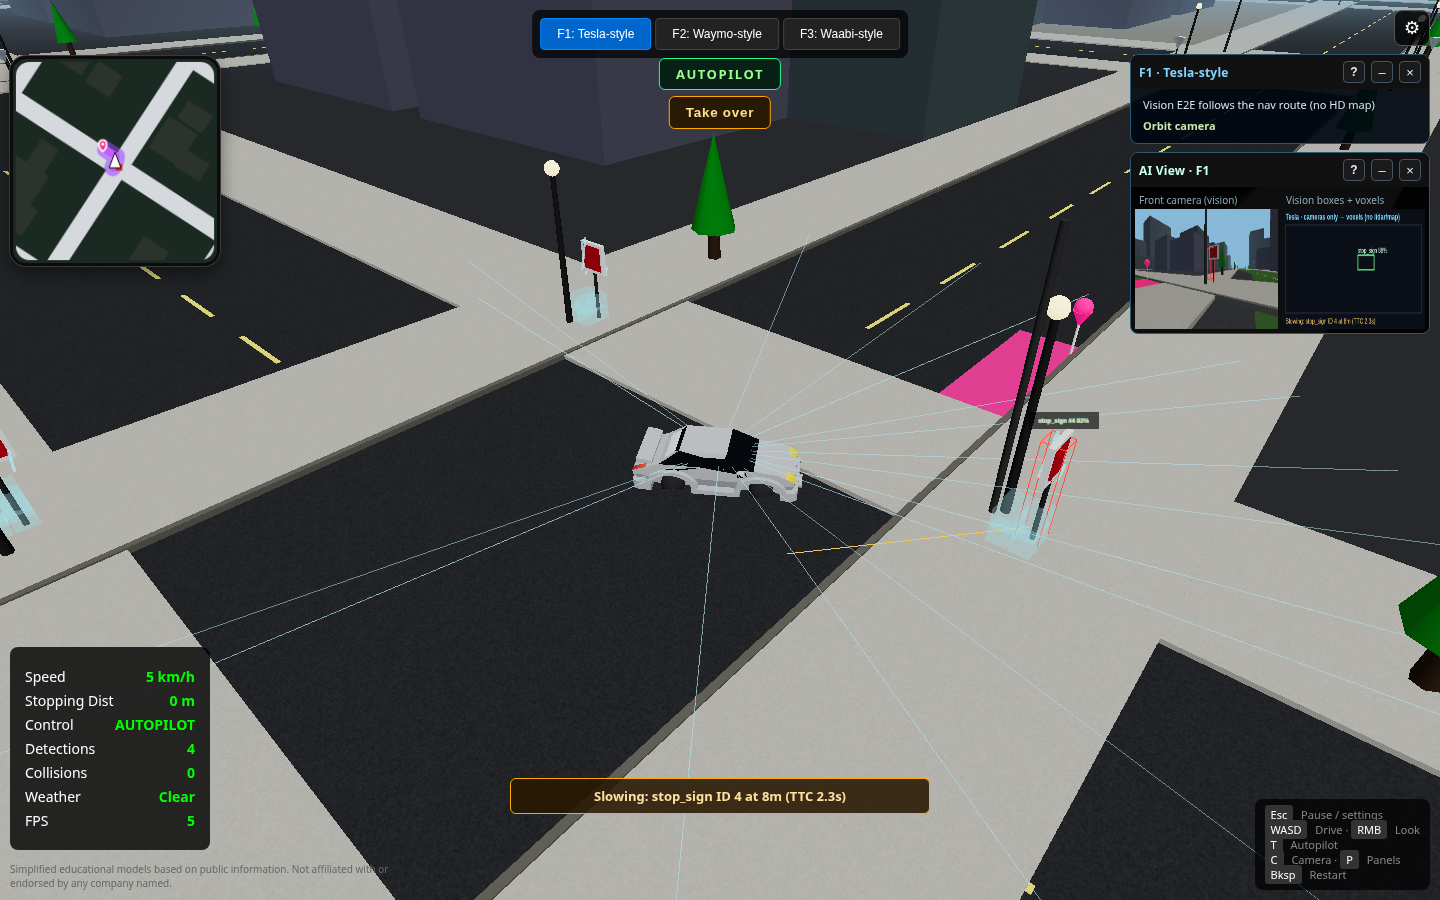
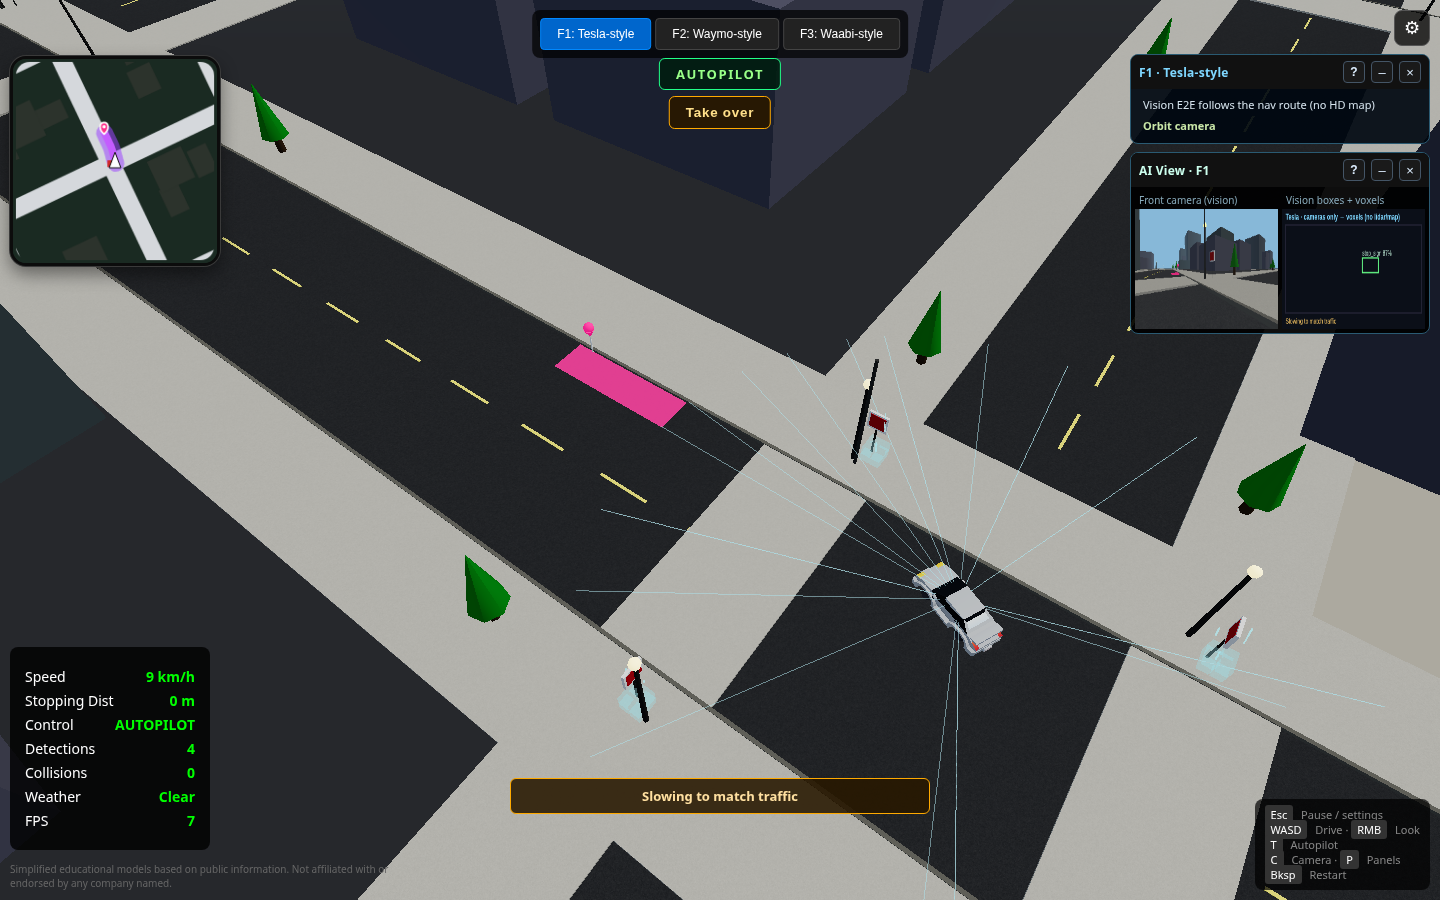
fix: slide cross-street dest pad past corner poles and signs
A 16 m center left the 8.4 m bay over sidewalks, crosswalks, and
corner furniture, so the car braked for a stop sign inside its own
pad. Cross-street pads now sit DEST_PAD_ALONG_CLEAR (23.2 m) on the
curb lane — 12 m past the asphalt box — while same-street opposite
dests at y=78 stay put.

diff --git a/game/src/sim/rightLane.test.ts b/game/src/sim/rightLane.test.ts
@@ -5,7 +5,10 @@ import { createPlannerState, planTrajectory } from '../planning/planner';
 import { createEgoState, updateVehicle, vehicleInputFromAccel } from './vehicle';
 import {
   CURB_CLEARANCE,
+  DEST_PAD_ALONG_CLEAR,
   LANE_OFFSET,
+  PAD_ALONG,
+  PAD_JUNCTION_GAP,
   PAD_WIDTH,
   PULL_OVER_OFFSET,
   ROAD_HALF,
@@ -269,6 +272,58 @@ describe('right-hand traffic lanes', () => {
     expect(turns).toEqual(['left']);
     expect(Math.min(...route.map(p => p.y))).toBeGreaterThan(90);
     expect(Math.max(...route.map(p => p.y))).toBeLessThan(resolved.pad.y + 8);
+  });
+
+  it('parks a corner left dest in the curb lane, 12 m past poles, signs, and crosswalks', () => {
+    const start = snapTripStart(50, 100, 0);
+    const end = vec3(104, 110, 0);
+    const resolved = resolveTripDestination(start, end);
+    const ix = 100;
+    const iy = 100;
+    expect(resolved.opposite).toBe(false);
+    expect(resolved.arrivalHeading).toBeCloseTo(Math.PI / 2, 5);
+    expect(resolved.pad.x).toBeCloseTo(ix + PULL_OVER_OFFSET, 5);
+    expect(resolved.pad.y).toBeCloseTo(iy + DEST_PAD_ALONG_CLEAR, 5);
+
+    const nearEdge = resolved.pad.y - PAD_ALONG / 2;
+    expect(nearEdge).toBeGreaterThanOrEqual(iy + ROAD_HALF + PAD_JUNCTION_GAP - 0.01);
+    expect(lateralFromCenter(resolved.pad.x, resolved.pad.y, resolved.arrivalHeading))
+      .toBeCloseTo(PULL_OVER_OFFSET, 5);
+
+    const halfAlong = PAD_ALONG / 2;
+    const halfLat = PAD_WIDTH / 2;
+    const padHits = (x: number, y: number, r = 0.2) => (
+      x >= resolved.pad.x - halfLat - r
+      && x <= resolved.pad.x + halfLat + r
+      && y >= resolved.pad.y - halfAlong - r
+      && y <= resolved.pad.y + halfAlong + r
+    );
+
+    const map = generateCityMap(3, CITY);
+    const furniture = map.staticEntities.filter(e => (
+      e.classType === 'pole' || e.classType === 'stop_sign' || e.classType === 'yield_sign'
+    ));
+    expect(furniture.some(e => (
+      Math.abs(e.transform.position.x - ix) < 14 && Math.abs(e.transform.position.y - iy) < 14
+    ))).toBe(true);
+    for (const e of furniture) {
+      expect(padHits(e.transform.position.x, e.transform.position.y)).toBe(false);
+    }
+
+    // Visual lamps / painted bars sit ~9–10 m off the crossing (main.ts city roads).
+    const lamp = ROAD_HALF + 2;
+    const walk = ROAD_HALF + 2.2;
+    for (const [dx, dy] of [[1, 1], [1, -1], [-1, 1], [-1, -1]] as const) {
+      expect(padHits(ix + dx * lamp, iy + dy * lamp)).toBe(false);
+    }
+    for (const s of [-3, 0, 3]) {
+      expect(padHits(ix + s * 0.9, iy + walk)).toBe(false);
+      expect(padHits(ix + walk, iy + s * 0.9)).toBe(false);
+    }
+
+    const opposite = resolveTripDestination(vec3(0, 22, 0), vec3(-4.5, 78, 0));
+    expect(opposite.opposite).toBe(true);
+    expect(opposite.pad.y).toBeCloseTo(78, 0);
   });
 
   it('does not loop for a cross-street dest that used to look opposite', () => {

diff --git a/game/src/sim/rightLane.ts b/game/src/sim/rightLane.ts
@@ -30,8 +30,16 @@ export const PAD_WIDTH = 2 * (ROAD_HALF - PULL_OVER_OFFSET);
 export const PULL_OVER_LENGTH = 16;
 /** Straight, road-parallel tail so the nose matches the curb at the stop. */
 export const PULL_OVER_STRAIGHT = 10;
-/** Keep the pad out of the intersection box. */
+/** Keep a same-street pad out of the intersection box (center-to-center). */
 export const DEST_INTERSECTION_CLEAR = 16;
+/**
+ * Metres past the asphalt box to the near edge of a cross-street pad.
+ * Poles, stop/yield signs, and painted crosswalks sit ~9–10 m from the
+ * crossing; a 16 m center leaves the 8.4 m bay overlapping them.
+ */
+export const PAD_JUNCTION_GAP = 12;
+/** Arrival-heading distance from the crossing to the pad center. */
+export const DEST_PAD_ALONG_CLEAR = ROAD_HALF + PAD_JUNCTION_GAP + PAD_ALONG / 2;
 /** Mid-block spawn: stay this far from a grid crossing so the car is not on a stop line. */
 export const SPAWN_INTERSECTION_CLEAR = 24;
 /** City grid step (matches `world.ts` MAP_BLOCK). */
@@ -258,11 +266,13 @@ export function placeTripStart(start: Vec3, end: Vec3): { pos: Vec3; yaw: number
  * Slide a roadside pad out of a junction.
  * Same-street: park *before* the box (backward along the approach).
  * Cross-street (`keepClickSide`): stay on the click's arm so a left-turn dest
- * just past the corner is not dragged back onto the approach street.
+ * just past the corner is not dragged back onto the approach street, and
+ * sit far enough that the 8.4 m bay is past poles, signs, and crosswalks.
  */
 export function slideOffIntersection(point: Vec3, heading: number, keepClickSide = false): Vec3 {
   const yaw = snapHeadingToGrid(heading);
-  if (!nearGridCrossing(point.x, point.y)) {
+  const minAlong = keepClickSide ? DEST_PAD_ALONG_CLEAR : DEST_INTERSECTION_CLEAR;
+  if (!nearGridCrossing(point.x, point.y, minAlong)) {
     return placeInRightLane(point.x, point.y, yaw, PULL_OVER_OFFSET);
   }
   const ix = nearestGridLine(point.x);
@@ -271,7 +281,7 @@ export function slideOffIntersection(point: Vec3, heading: number, keepClickSide
   const fy = Math.sin(yaw);
   const along = (point.x - ix) * fx + (point.y - iy) * fy;
   const targetAlong = keepClickSide
-    ? (along >= 0 ? 1 : -1) * DEST_INTERSECTION_CLEAR
+    ? Math.sign(along || 1) * Math.max(Math.abs(along), minAlong)
     : (along >= 0 ? -DEST_INTERSECTION_CLEAR : Math.min(along, -DEST_INTERSECTION_CLEAR));
   return placeInRightLane(ix + fx * targetAlong, iy + fy * targetAlong, yaw, PULL_OVER_OFFSET);
 }

diff --git a/wiki/systems/testing.md b/wiki/systems/testing.md
@@ -23,7 +23,7 @@ Collision-response tests live in `collision.test.ts` (OBB/capsule overlap, spati
 
 `poleTurn.test.ts` drives left / right / straight through a grid corner that has city poles and asserts `obstacleAhead` never full-brakes on them. `viewPerfTurns.test.ts` reuses the same `driveCorner` helper so those turns still complete after perception-scheduling changes. `f3Perf.test.ts` bounds F3 overlay lidar scans, occupancy allocs, and 10 Hz predicts. `npm run bench:views` reports F1/F2/F3 subsystem times. `cityLook.test.ts` covers vertex AO and procedural textures. `pedestrianVisual.test.ts` asserts walking heading stays within 10° of `atan2(velocity)`.
 
-`destination.test.ts` / `rightLane.test.ts` cover the roadside pad (right-curb offset 5.775 m, slide off junctions, `tripRoute` tail) and a planner+vehicle pull-over that stops on the pad. Parked pose asserts heading error **< 5°** and every sedan corner on the **arrival road** (`onArrivalAsphalt` + `distanceToRightCurb` ~0.3 m), not `|x| < 7` (N–S only) or `pointOnAsphalt` (OR of both axes). Eastbound unit cases use the Y curb so `|x| < 7` would wrongly fail x≈50. The live sim then holds with banner **Arrived**. Opposite-side clicks assert a U-turn (route goes past the next junction) and Arrived on the left curb heading-aligned, with no cruise-stuck in-lane stop. A dest one left turn away asserts exactly one left, no U-turn, and a near-Manhattan length (a U-turn + right would add a block). Left, right, and straight trip routes all pass; a cross-street click that used to look "left of the last segment" no longer loops. `stackLeftTurn.test.ts` drives that left with `planTrajectory` + `updateVehicle` and checks each stack's `setPlannerStack` + `beginTrip` is still one left. `stackPlan.test.ts` / `laneGraph.test.ts` cover Tesla vision detections, Waymo HD-lane lefts, and Waabi occupancy scoring preferring the dest route. `?demo=left-near&stack=tesla|waymo|waabi` is the live view rig. `perceptionViz.test.ts` asserts world-space `%` sprites stay capped, fade with distance, and hide under the HUD. Minimap tests assert the dest pin is `#ff2d8a` and still projects in manual. `?demo=arrive` / `?demo=arrive-opp` are the screenshot rigs (those two demos clear traffic and pedestrians so a ped cannot steal the arrival).
+`destination.test.ts` / `rightLane.test.ts` cover the roadside pad (right-curb offset 5.775 m, slide off junctions, `tripRoute` tail) and a planner+vehicle pull-over that stops on the pad. Parked pose asserts heading error **< 5°** and every sedan corner on the **arrival road** (`onArrivalAsphalt` + `distanceToRightCurb` ~0.3 m), not `|x| < 7` (N–S only) or `pointOnAsphalt` (OR of both axes). Eastbound unit cases use the Y curb so `|x| < 7` would wrongly fail x≈50. The live sim then holds with banner **Arrived**. Opposite-side clicks assert a U-turn (route goes past the next junction) and Arrived on the left curb heading-aligned, with no cruise-stuck in-lane stop. A dest one left turn away asserts exactly one left, no U-turn, and a near-Manhattan length (a U-turn + right would add a block). A just-around-the-corner left (`(50,100) → (104,110)`) parks at `100 + DEST_PAD_ALONG_CLEAR` on the curb (`100 + PULL_OVER_OFFSET`); the pad AABB misses city poles/signs and the visual lamps/crosswalks (~9–10 m off the box). The #33 opposite dest at y=78 stays put. Left, right, and straight trip routes all pass; a cross-street click that used to look "left of the last segment" no longer loops. `stackLeftTurn.test.ts` drives that left with `planTrajectory` + `updateVehicle` and checks each stack's `setPlannerStack` + `beginTrip` is still one left. `stackPlan.test.ts` / `laneGraph.test.ts` cover Tesla vision detections, Waymo HD-lane lefts, and Waabi occupancy scoring preferring the dest route. `?demo=left-near&stack=tesla|waymo|waabi` is the live view rig. `perceptionViz.test.ts` asserts world-space `%` sprites stay capped, fade with distance, and hide under the HUD. Minimap tests assert the dest pin is `#ff2d8a` and still projects in manual. `?demo=arrive` / `?demo=arrive-opp` are the screenshot rigs (those two demos clear traffic and pedestrians so a ped cannot steal the arrival).
 
 `startMenu.test.ts` covers A → B (start then dest, reset, arrived default start) and Random (both pins, reroll), plus curb snaps and map pin round-trips. `recovery.test.ts` covers valid `beginTrip` spawn, reverse re-merge from the sidewalk, and not sitting forever at a clear stop. `rightLane.test.ts` also snaps a start click off the stop line. `?demo=` / `?shot=` still skip the overlay. `?demo=left-near` / `?ab=sx,sy,ex,ey` / `?stack=tesla|waymo|waabi` are the left-turn menu/live rigs. Live shots: `docs/screenshots/28-start-menu.png`, `29-arrived-menu.png`, `30-second-trip.png`, `39-menu-left-before.png`, `39-menu-left-after.png`, `39-left-turn-live.png`, `40-left-f1-tesla.png`, `40-left-f2-waymo.png`, `40-left-f3-waabi.png`.
 

diff --git a/wiki/systems/planning.md b/wiki/systems/planning.md
@@ -10,7 +10,7 @@ sources: [13, 18, 20, 25, 27, 28, 29, 30, 33, 39]
 
 F1 / F2 / F3 no longer share one route builder. `planForStack` / `buildStackRoute` pick vision+nav (Tesla), HD lane-graph (Waymo), or occupancy-forecast scoring (Waabi). The dest pad rule is unchanged. See [[stack-planning]] and [[public-sources]].
 
-Map clicks still snap to the road axis (`snapToRoad`, [[pr-13]]). End clicks use `snapTripEnd` so a junction click stays on the start road and keeps the clicked curb side. Ego trips then follow `tripRoute`: a Manhattan `rightLaneRoute` (right turns cut the near corner; left turns go wide, [[pr-20]], which **supersedes** driving the centerline `roadRoute` for `beginTrip`) plus a lateral ease and a **road-parallel tail** onto a roadside pad at `PULL_OVER_OFFSET` (5.775 m, ~0.3 m tyre-to-curb). The pad is on the **right-hand curb of the arrival heading**. Opposite-side U-turn from [[pr-33]] fires only when start and dest share a grid road *and* the click is left of that road's naive approach — a cross-street dest that only needs a left / right / straight does not loop past the corner. A legal left at an intersection stays cheaper than a U-turn plus a right. Cross-street pads keep the click's arm of the junction (they are not slid back onto the approach street). `beginTrip` and `reengageAutopilot` keep that first resolve so F1 / F2 / F3 cannot rebuild a U-turn from the already-snapped pad. Each stack then builds its own `state.route` from that resolve. Same-road start/end no longer detour through the next grid crossing. A same-street pad is slid backward if the click sits in a junction. `remainingRouteDistance` creeps in the last 12 m and stops in the last 4 m. On the pad the sim sets `arrived`, holds the brakes, and the banner reads **Arrived** ([[pr-30]]). Standing still in-lane while cruising with the pad still metres away triggers `reengageAutopilot()`. If the ego is off its lane or path, or held at a **clear** stop longer than 2.4 s, `recovery.ts` GTA-reverses then `reengageAutopilot()` so it can full-stop and leave — it does not sit forever at a stop sign. The 3D pin sits at the front-right of the pad and hides once parked so it does not pierce the body.
+Map clicks still snap to the road axis (`snapToRoad`, [[pr-13]]). End clicks use `snapTripEnd` so a junction click stays on the start road and keeps the clicked curb side. Ego trips then follow `tripRoute`: a Manhattan `rightLaneRoute` (right turns cut the near corner; left turns go wide, [[pr-20]], which **supersedes** driving the centerline `roadRoute` for `beginTrip`) plus a lateral ease and a **road-parallel tail** onto a roadside pad at `PULL_OVER_OFFSET` (5.775 m, ~0.3 m tyre-to-curb). The pad is on the **right-hand curb of the arrival heading**. Opposite-side U-turn from [[pr-33]] fires only when start and dest share a grid road *and* the click is left of that road's naive approach — a cross-street dest that only needs a left / right / straight does not loop past the corner. A legal left at an intersection stays cheaper than a U-turn plus a right. Cross-street pads keep the click's arm of the junction (they are not slid back onto the approach street) and sit `PAD_JUNCTION_GAP` 12 m past the asphalt box so the bay is clear of corner poles, signs, and crosswalks. `beginTrip` and `reengageAutopilot` keep that first resolve so F1 / F2 / F3 cannot rebuild a U-turn from the already-snapped pad. Each stack then builds its own `state.route` from that resolve. Same-road start/end no longer detour through the next grid crossing. A same-street pad is slid backward if the click sits in a junction. `remainingRouteDistance` creeps in the last 12 m and stops in the last 4 m. On the pad the sim sets `arrived`, holds the brakes, and the banner reads **Arrived** ([[pr-30]]). Standing still in-lane while cruising with the pad still metres away triggers `reengageAutopilot()`. If the ego is off its lane or path, or held at a **clear** stop longer than 2.4 s, `recovery.ts` GTA-reverses then `reengageAutopilot()` so it can full-stop and leave — it does not sit forever at a stop sign. The 3D pin sits at the front-right of the pad and hides once parked so it does not pierce the body.
 
 `input.rule` from `decideIntersection` caps `desiredSpeed` and forces a stop when `mustStop` ([[traffic-rules]]). `obstacleAhead` and `findClosestObstacleAhead` skip roadside statics (poles, trees, signs, buildings), so a corner pole does not full-brake a turn ([[pr-28]]). Contact with those objects still collides ([[collisions]]).
 

diff --git a/wiki/entities/right-lane.md b/wiki/entities/right-lane.md
@@ -8,7 +8,7 @@ sources: [20, 30, 33, 39]
 
 Right-hand traffic geometry. Heading θ: right is `(sin θ, −cos θ)`. Eastbound right is −Y; northbound right is +X. `LANE_OFFSET` is 3.5 m (`LANE_INNER` 1.6 … `LANE_OUTER` 5.8). `PULL_OVER_OFFSET` is `ROAD_HALF − CURB_CLEARANCE − SEDAN_HALF_WIDTH` = 5.775 m, so a 1.85 m sedan parks with its right edge at 6.7 m (~0.3 m off the curb face at 7 m). The pink bay is `PAD_ALONG` 8.4 m along-road × `PAD_WIDTH` 2.45 m lateral, centered on the parked pose so the outer edge sits flush on the curb. `appendPullOver` eases laterally then adds a `PULL_OVER_STRAIGHT` (10 m) road-parallel tail.
 
-`rightLaneRoute` builds a Manhattan trip in that lane: right turns cut the near corner; left turns go wide into the far right lane. `resolveTripDestination` puts the pad on the right curb of the arrival heading. `opposite` is **same-street only**: `sameGridRoad(start, end)` and a click left of `OPPOSITE_SIDE_LAT` (−1.2 m). Cross-street dests keep the last Manhattan heading (no flip) so a one-corner left is just `rightLaneRoute` + pull-over. `slideOffIntersection(..., keepClickSide)` leaves a cross-street pad on the dest's arm of the box instead of dragging it backward through the corner. Same-street opposite still inserts `intersectionUTurn` at `nextIntersectionAhead`. `mergeIntoLaneRoute` can take the already-resolved dest so `beginTrip` / re-engage do not re-classify a pad. Tesla and Waabi still build that nav polyline; Waymo walks HD lanes instead (`laneGraphRoute`). `snapTripStart` / `placeTripStart` put a menu or `beginTrip` start in the driving lane, slid `SPAWN_INTERSECTION_CLEAR` (24 m) off any junction. Same-road corners are start→end only — they do not bounce through the next crossing. `mergeIntoLaneRoute` still cruises without a pad when there is no trip goal. Parked-pose checks use `onArrivalAsphalt` (the arrival heading's road only) and `distanceToRightCurb` — not `pointOnAsphalt` / `|x| < 7`, which only match N–S streets.
+`rightLaneRoute` builds a Manhattan trip in that lane: right turns cut the near corner; left turns go wide into the far right lane. `resolveTripDestination` puts the pad on the right curb of the arrival heading. `opposite` is **same-street only**: `sameGridRoad(start, end)` and a click left of `OPPOSITE_SIDE_LAT` (−1.2 m). Cross-street dests keep the last Manhattan heading (no flip) so a one-corner left is just `rightLaneRoute` + pull-over. `slideOffIntersection(..., keepClickSide)` leaves a cross-street pad on the dest's arm of the box instead of dragging it backward through the corner, and pushes the pad center to `DEST_PAD_ALONG_CLEAR` (`ROAD_HALF` + `PAD_JUNCTION_GAP` 12 m + `PAD_ALONG`/2 = 23.2 m) so the 8.4 m bay sits on the curb lane past poles, stop/yield signs, and painted crosswalks (~9–10 m off the crossing). Same-street clicks still use `DEST_INTERSECTION_CLEAR` 16 m and slide *backward* — a #33 opposite dest at y=78 is not pulled forward. Same-street opposite still inserts `intersectionUTurn` at `nextIntersectionAhead`. `mergeIntoLaneRoute` can take the already-resolved dest so `beginTrip` / re-engage do not re-classify a pad. Tesla and Waabi still build that nav polyline; Waymo walks HD lanes instead (`laneGraphRoute`). `snapTripStart` / `placeTripStart` put a menu or `beginTrip` start in the driving lane, slid `SPAWN_INTERSECTION_CLEAR` (24 m) off any junction. Same-road corners are start→end only — they do not bounce through the next crossing. `mergeIntoLaneRoute` still cruises without a pad when there is no trip goal. Parked-pose checks use `onArrivalAsphalt` (the arrival heading's road only) and `distanceToRightCurb` — not `pointOnAsphalt` / `|x| < 7`, which only match N–S streets.
 
 ## Key files
 

diff --git a/wiki/sources/pr-39.md b/wiki/sources/pr-39.md
@@ -9,13 +9,13 @@ sources: [39]
 ## What changed
 
 - `resolveTripDestination` sets `opposite` only when start and dest share a grid road **and** the click is left of that road's naive approach (`OPPOSITE_SIDE_LAT` −1.2 m). A cross-street dest that only needs a left / right / straight does not flip heading or insert `intersectionUTurn`.
-- Cross-street pads call `slideOffIntersection(..., keepClickSide)` so a dest just past the corner stays on that arm. Same-street junction clicks still slide *backward* (park before the box).
+- Cross-street pads call `slideOffIntersection(..., keepClickSide)` so a dest just past the corner stays on that arm. The pad center is `DEST_PAD_ALONG_CLEAR` (23.2 m) so the near edge is 12 m past `ROAD_HALF` — clear of poles, stop/yield signs, and painted crosswalks. Same-street junction clicks still slide *backward* with `DEST_INTERSECTION_CLEAR` 16 m (park before the box); y=78 opposite dests are not pulled forward.
 - `beginTrip` / `reengageAutopilot` keep that first `ResolvedDestination` so a later re-resolve of the pad cannot flip a left into a U-turn+right.
 - A legal left at an intersection stays near-Manhattan length — cheaper than going past, U-turning, and coming back for a right.
 - Same-road opposite-side U-turn from [[pr-33]] is unchanged (`(0,22) → (−4.5,78)` still goes past the next junction).
 - Live F1 / F2 / F3 planning is no longer one shared `planTrajectory` on one nav polyline. Tesla follows the nav route from camera detections; Waymo routes on the HD-map lane graph; Waabi scores occupancy-forecast candidates attracted to the dest route. Public-vs-approx notes: [[public-sources]].
 - `Simulation.setPlannerStack` (F-keys, start menu, `?stack=`) rebuilds the current trip on the new style.
-- Screenshot rigs: `?demo=left-near`, `?ab=sx,sy,ex,ey`, `?stack=tesla|waymo|waabi`.
+- Screenshot rigs: `?demo=left-near`, `?ab=sx,sy,ex,ey`, `?stack=tesla|waymo|waabi`. Live F1/F2/F3 shots retaken after the pad slide so the bay sits on the curb ~12 m past the box.
 
 ## Why
 

diff --git a/wiki/log.md b/wiki/log.md
@@ -117,3 +117,5 @@ Append-only. `grep "^## \[" wiki/log.md | tail -5`
 ## [2026-10-15] ingest | PR #39 live F1/F2/F3 planner follows the single left
 
 ## [2026-10-15] ingest | PR #39 stack-faithful F1/F2/F3 planning (public-source notes)
+
+## [2026-10-15] ingest | PR #39 cross-street pad 12 m past junction, clear of poles/signs
